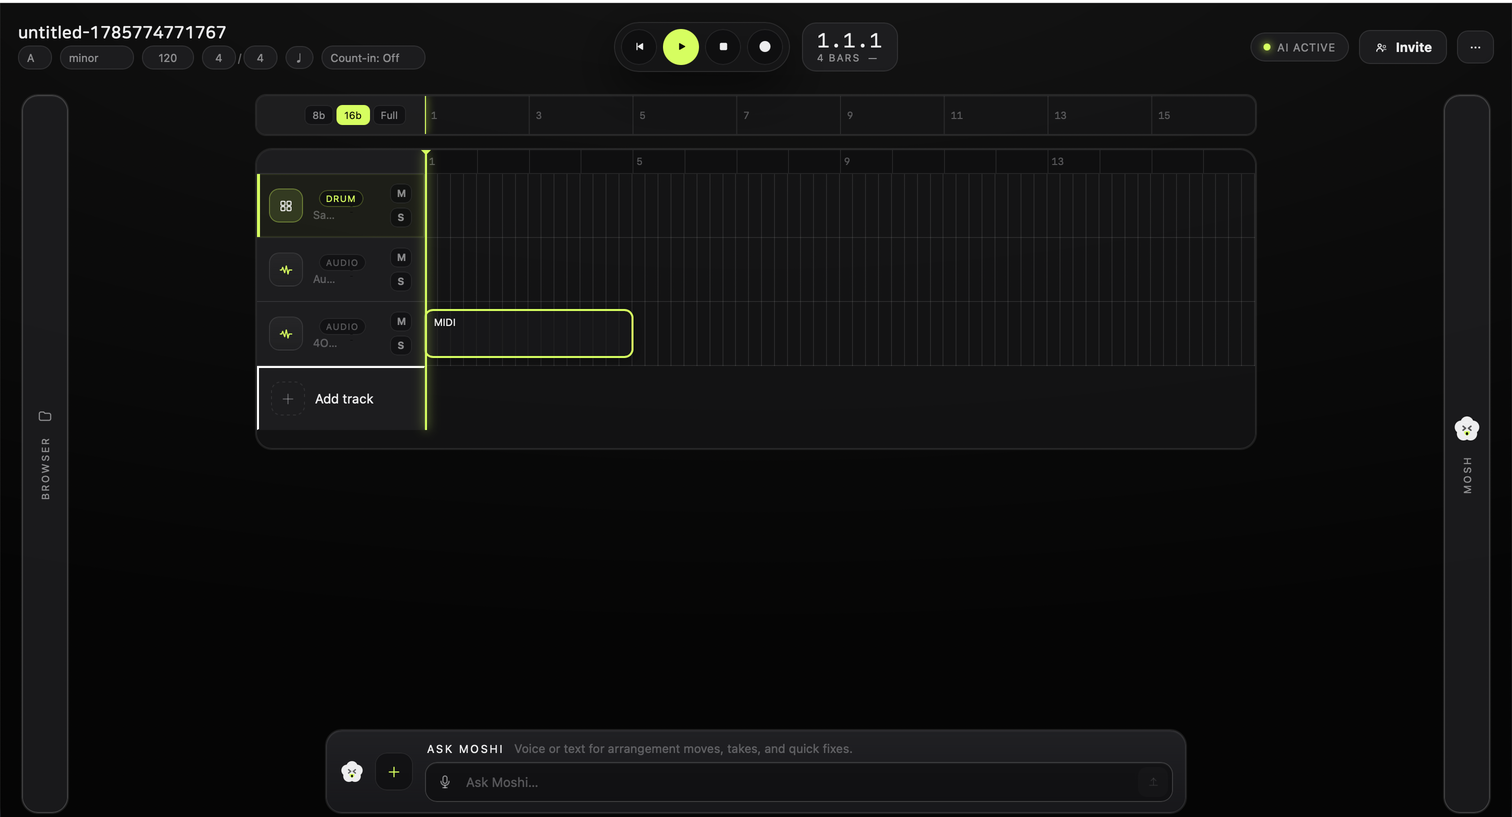
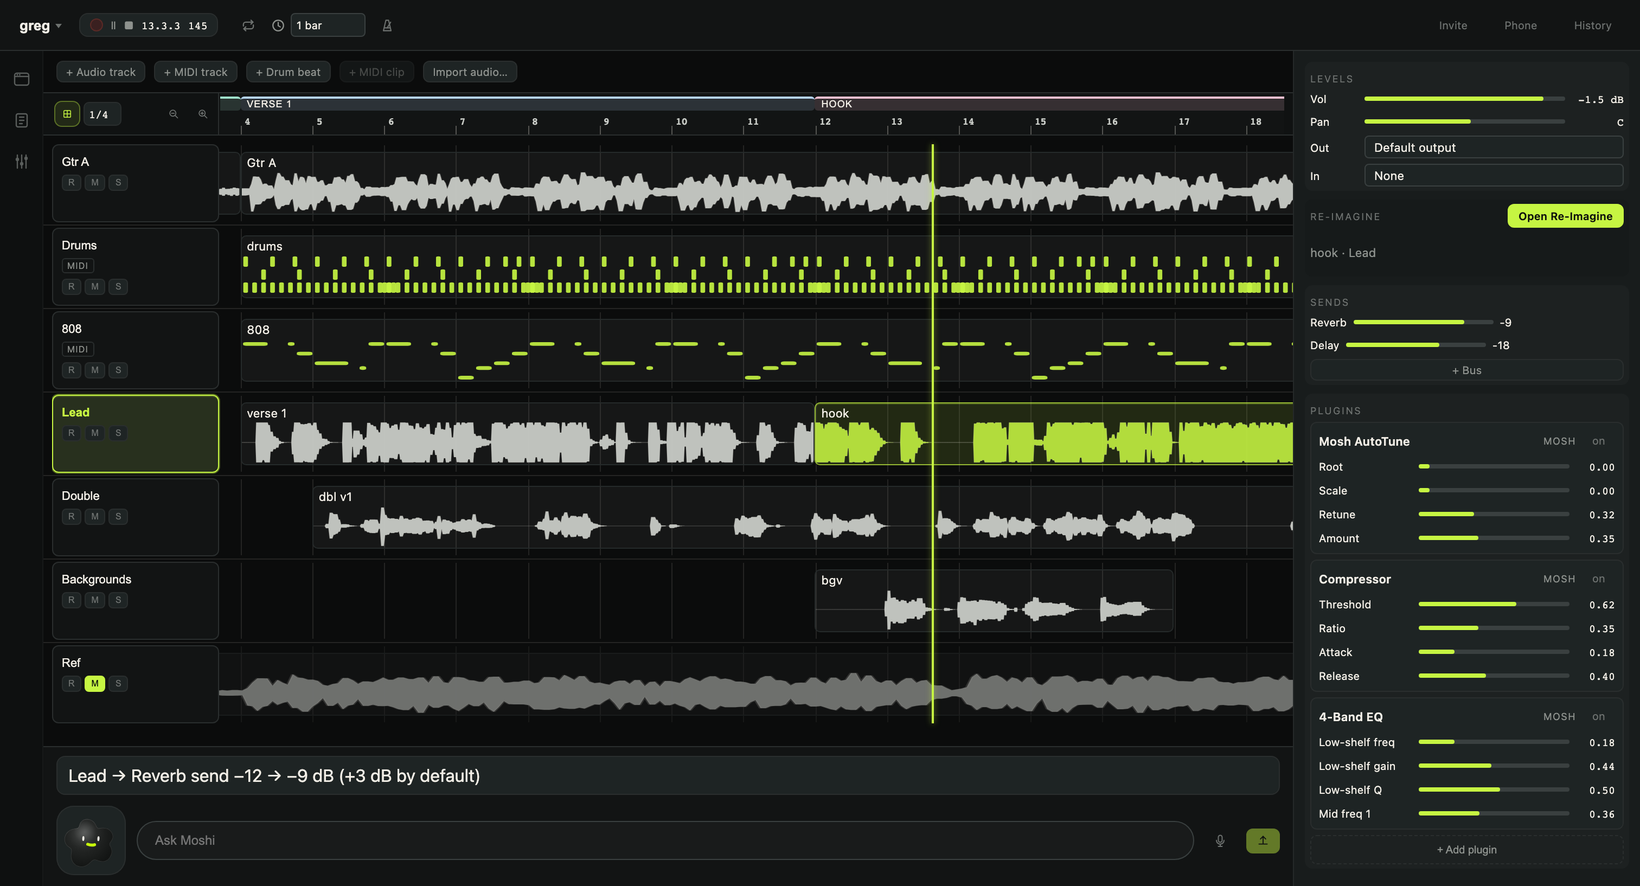
docs(readme): the arrange screenshot is the V3 shell on a real session
Replaces assets/app-arrange.png (the old 1512x817 untitled 3-track session) with the portfolio
capture: Song A in the V3 shell, lime, one grid through translucent clips, track separators, the
timeline corner, the lead vocal's chain and sends, and Moshi's reply in the dock. Stored at
1640 px (2x the README's 820 px display width). Alt text describes the new content.

diff --git a/README.md b/README.md
@@ -21,7 +21,7 @@ that works on any track (MIDI/drum clips auto-bounce to audio first). An in-app 
 2-player multiplayer ride on the same command spine.
 
 <p align="center">
-  <img src="assets/app-arrange.png" width="820" alt="Mosh — arrange view with drum, audio, and MIDI tracks and the Ask Moshi bar">
+  <img src="assets/app-arrange.png" width="820" alt="Mosh arrange view on a real session: guitar, drums, 808 and vocal tracks with waveforms and MIDI, sections over the ruler, the lead vocal's chain and sends in the inspector, and Moshi's reply in the Ask Moshi bar">
 </p>
 
 > **macOS / Apple Silicon (arm64) is canonical.** A Windows + NVIDIA/CUDA build is an
